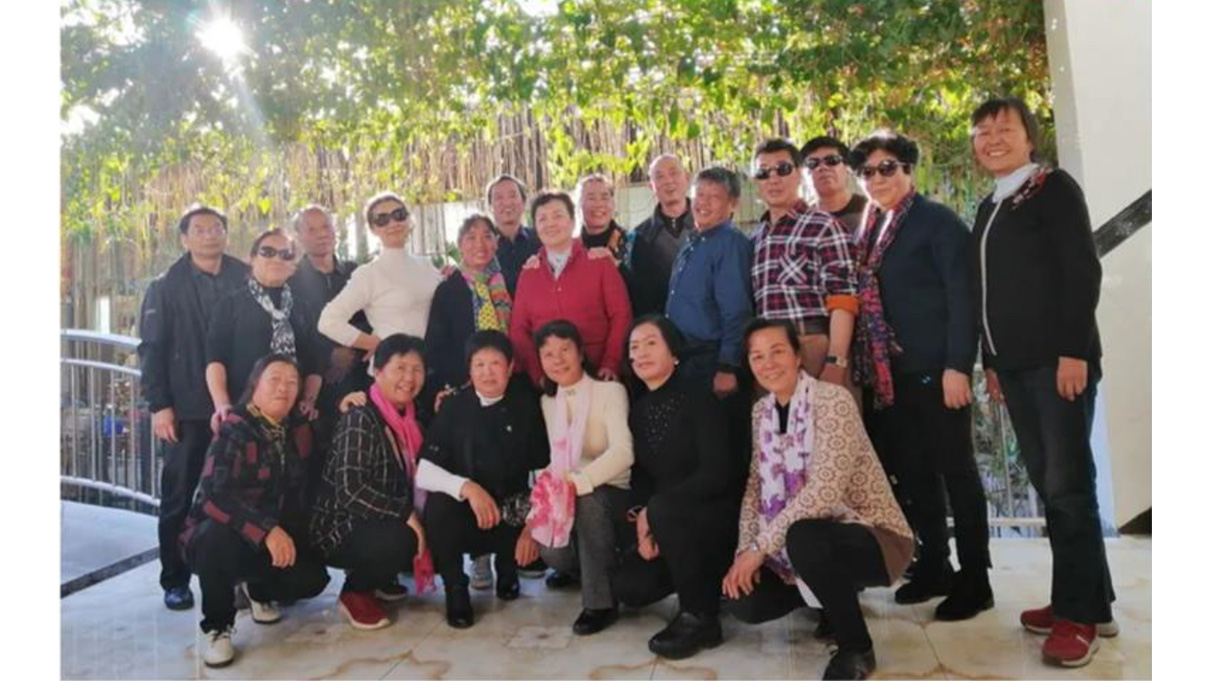
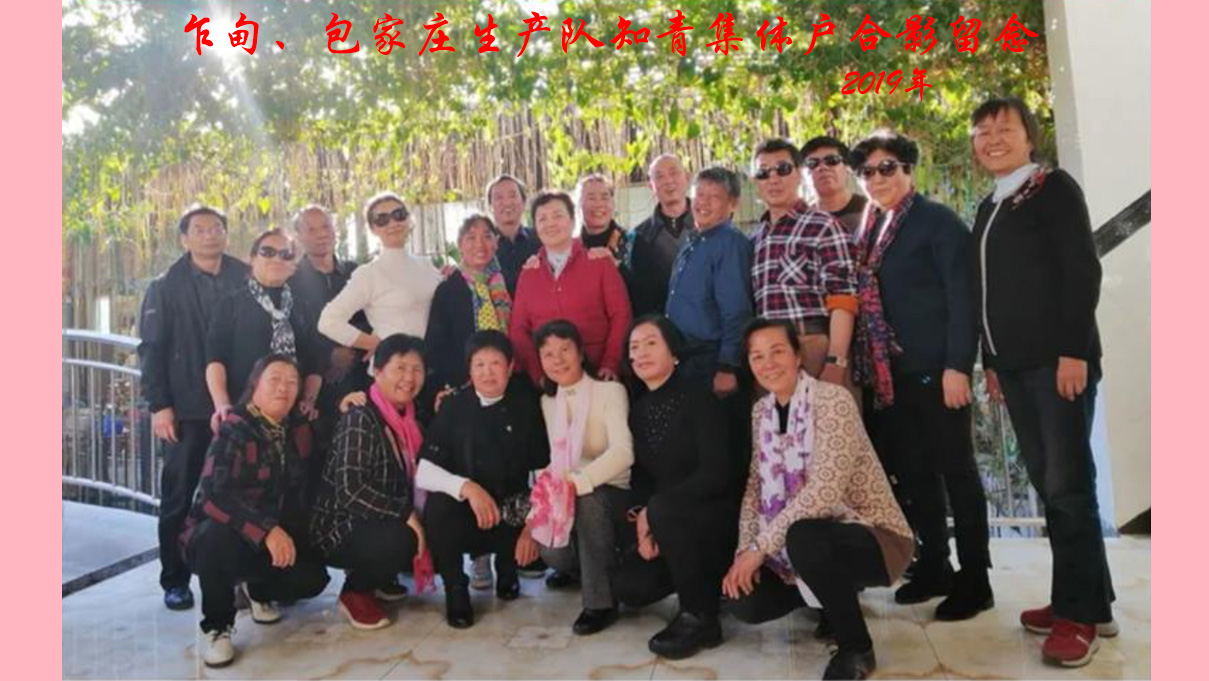
add a post

diff --git a/_pages/gonggao.md b/_pages/gonggao.md
@@ -2,7 +2,7 @@
 layout: single
 permalink: /gonggao/
 title: "包家庄村务信息公开"
-excerpt: "标语"
+excerpt: ""
 
 toc: true
 toc_label: "公告栏"
@@ -14,6 +14,7 @@ header:
 ## 政务公开
 
 ### - 会议纪要
+
 - xxxxxxxxxxxxxxxxxxxxxxxxxxxxxxxxxxxxxxxxxxxxxxxxxxxxxxxxx
 - xxxxxxxxxxxxxxxxxxxxxxxxxxxxxxxxxxxxxxxxxxxxxxxxxxxxxxxxx
 - xxxxxxxxxxxxxxxxxxxxxxxxxxxxxxxxxxxxxxxxxxxxxxxxxxxxxxxxx
@@ -21,22 +22,31 @@ header:
 ## 事务公开
 
 ### - 公共设施建设
+
 - xxxxxxxxxxxxxxxxxxxxxxxxxxxxxxxxxxxxxxxxxxxxxxxxxxxxxxxxx
 - xxxxxxxxxxxxxxxxxxxxxxxxxxxxxxxxxxxxxxxxxxxxxxxxxxxxxxxxx
 - xxxxxxxxxxxxxxxxxxxxxxxxxxxxxxxxxxxxxxxxxxxxxxxxxxxxxxxxx
+
 ### - 教育
+
 - xxxxxxxxxxxxxxxxxxxxxxxxxxxxxxxxxxxxxxxxxxxxxxxxxxxxxxxxx
 - xxxxxxxxxxxxxxxxxxxxxxxxxxxxxxxxxxxxxxxxxxxxxxxxxxxxxxxxx
 - xxxxxxxxxxxxxxxxxxxxxxxxxxxxxxxxxxxxxxxxxxxxxxxxxxxxxxxxx
+
 ### - 医疗
+
 - xxxxxxxxxxxxxxxxxxxxxxxxxxxxxxxxxxxxxxxxxxxxxxxxxxxxxxxxx
 - xxxxxxxxxxxxxxxxxxxxxxxxxxxxxxxxxxxxxxxxxxxxxxxxxxxxxxxxx
 - xxxxxxxxxxxxxxxxxxxxxxxxxxxxxxxxxxxxxxxxxxxxxxxxxxxxxxxxx
+
 ### - 就业
+
 - xxxxxxxxxxxxxxxxxxxxxxxxxxxxxxxxxxxxxxxxxxxxxxxxxxxxxxxxx
 - xxxxxxxxxxxxxxxxxxxxxxxxxxxxxxxxxxxxxxxxxxxxxxxxxxxxxxxxx
 - xxxxxxxxxxxxxxxxxxxxxxxxxxxxxxxxxxxxxxxxxxxxxxxxxxxxxxxxx
+
 ### - 低保
+
 - xxxxxxxxxxxxxxxxxxxxxxxxxxxxxxxxxxxxxxxxxxxxxxxxxxxxxxxxx
 - xxxxxxxxxxxxxxxxxxxxxxxxxxxxxxxxxxxxxxxxxxxxxxxxxxxxxxxxx
 - xxxxxxxxxxxxxxxxxxxxxxxxxxxxxxxxxxxxxxxxxxxxxxxxxxxxxxxxx
@@ -44,24 +54,31 @@ header:
 ## 财务公开
 
 ### - 收入
+
 - xxxxxxxxxxxxxxxxxxxxxxxxxxxxxxxxxxxxxxxxxxxxxxxxxxxxxxxxx
 - xxxxxxxxxxxxxxxxxxxxxxxxxxxxxxxxxxxxxxxxxxxxxxxxxxxxxxxxx
 - xxxxxxxxxxxxxxxxxxxxxxxxxxxxxxxxxxxxxxxxxxxxxxxxxxxxxxxxx
+
 ### - 支出
+
 - xxxxxxxxxxxxxxxxxxxxxxxxxxxxxxxxxxxxxxxxxxxxxxxxxxxxxxxxx
 - xxxxxxxxxxxxxxxxxxxxxxxxxxxxxxxxxxxxxxxxxxxxxxxxxxxxxxxxx
 - xxxxxxxxxxxxxxxxxxxxxxxxxxxxxxxxxxxxxxxxxxxxxxxxxxxxxxxxx
+
 ### - 项目
+
+- xxxxxxxxxxxxxxxxxxxxxxxxxxxxxxxxxxxxxxxxxxxxxxxxxxxxxxxxx
+- xxxxxxxxxxxxxxxxxxxxxxxxxxxxxxxxxxxxxxxxxxxxxxxxxxxxxxxxx
+- xxxxxxxxxxxxxxxxxxxxxxxxxxxxxxxxxxxxxxxxxxxxxxxxxxxxxxxxx
+
+## 规章制度
+
 - xxxxxxxxxxxxxxxxxxxxxxxxxxxxxxxxxxxxxxxxxxxxxxxxxxxxxxxxx
 - xxxxxxxxxxxxxxxxxxxxxxxxxxxxxxxxxxxxxxxxxxxxxxxxxxxxxxxxx
 - xxxxxxxxxxxxxxxxxxxxxxxxxxxxxxxxxxxxxxxxxxxxxxxxxxxxxxxxx
 
 ## 反馈意见
-- xxxxxxxxxxxxxxxxxxxxxxxxxxxxxxxxxxxxxxxxxxxxxxxxxxxxxxxxx
-- xxxxxxxxxxxxxxxxxxxxxxxxxxxxxxxxxxxxxxxxxxxxxxxxxxxxxxxxx
-- xxxxxxxxxxxxxxxxxxxxxxxxxxxxxxxxxxxxxxxxxxxxxxxxxxxxxxxxx
 
-## 其他
 - xxxxxxxxxxxxxxxxxxxxxxxxxxxxxxxxxxxxxxxxxxxxxxxxxxxxxxxxx
 - xxxxxxxxxxxxxxxxxxxxxxxxxxxxxxxxxxxxxxxxxxxxxxxxxxxxxxxxx
 - xxxxxxxxxxxxxxxxxxxxxxxxxxxxxxxxxxxxxxxxxxxxxxxxxxxxxxxxx

diff --git a/_posts/2022-11-19-wenmingjiaxiang.md b/_posts/2022-11-19-wenmingjiaxiang.md
@@ -1,0 +1,48 @@
+---
+title: "建设文明家乡-邻里相处之道"
+last_modified_at: 2022-11-19
+categories: 
+  - culture
+tags:
+  - 建设
+  - 相处
+---
+
+常言道：远亲不如近邻，邻居之间相处的时间一般都比较长，和睦的邻里关系会让大家都觉得如沐春风，反之水火不容的邻里关系则容易让大家都感到身心疲惫，所以如何与邻居搞好关系，文明相处，是十分重要的。
+
+### 打招呼问好
+
+![](http://sh.wenming.gd.cn/d/file/p/2019-05-10/1557450279474387.png)
+
+日常见到邻居要常打招呼问好。轻轻点一下头，送出一个亲切的微笑，附上一句恰当的称呼，再说一声简单的“您好”，邻里间的感情便会因这些小小举动变得越来越亲密。
+
+### 互帮互助，互相尊重
+
+![](http://sh.wenming.gd.cn/d/file/p/2019-05-10/1557450286725733.png)
+
+邻里之间能办到的事要及时搭把手，主动帮助空巢、残疾等特殊家庭，有事与邻居相互照应，邻居给予帮助后可以适当送一点小礼物表示感谢。 
+
+### 爱护公共环境
+
+![](http://sh.wenming.gd.cn/d/file/p/2019-05-10/1557450303100045.png)
+
+自觉维护公共卫生，主动参与社区打扫、清理活动，不乱堆放生活垃圾，不占用楼道等公共地方。养猫狗等宠物的家庭在遛宠物时应及时妥善清理宠物的排泄物，保持公共环境卫生和美观。
+
+### 不议论邻居隐私
+
+![](http://sh.wenming.gd.cn/d/file/p/2019-05-10/1557450327566150.png)
+
+不要说邻居的坏话以及议论邻居的隐私，即使看到一些事情，也不能四处宣扬，只要不是什么原则性的大问题，就只当没看见，维护邻居的尊严。 
+
+### 借东西及时归还
+
+![](http://sh.wenming.gd.cn/d/file/p/2019-05-10/1557450336850340.png)
+
+借用邻居的东西要有礼貌并且要及时归还，如有损坏要说明情况，主动道歉并作出相应的赔偿，最好不借贵重的东西，也不要转借他人。 
+
+你还有其他补充么？讲文明，懂礼仪，建设文明家乡，从现在坐起！！
+
+---
+
+*参考*  
+[*邻里相处之道-四会文明网*](http://gdsh.wenming.cn/CivilizedXF/201905/t20190510_3021613.shtml)

diff --git a/_posts/2022-11-19-zhiqingsunyue.md b/_posts/2022-11-19-zhiqingsunyue.md
@@ -1,0 +1,25 @@
+---
+title: "知青岁月"
+last_modified_at: 2022-11-19
+categories: 
+  - history
+tags:
+  - 历史
+  - 知青
+  - 建设
+---
+**知识青年上山下乡运动**（简称上山下乡，通称“下放”、“插队”），中国组织城市知识青年（简称“知青”）到农村定居和劳动的政治运动，前后经历25年（1956年-1978年），知青总数达2000万人左右。
+
+1968年12月，毛泽东同志关于“知识青年到农村去，接受贫下中农的再教育”的指示刚一发表，全国上下纷纷响应。1969年1月21日，是咱们个旧知青下乡的日子。当时，数百辆解放牌大卡车齐聚人民医院门口，它们将负责把全市5600多名知青分别送往各公社、大队、生产队去。
+
+当天早上8时许，老阴山的太阳刚刚冒出山顶，人民医院附近已是人山人海，你推我挤、人声鼎沸、接踵摩肩。远行的孩子，送别的亲人，殷殷的嘱咐，默默的祈祷……说不尽的千言万语，道不完的离情别绪。当车子缓缓启动，霎时间，人们感情的潮水犹如决堤的江河，一发不可收拾——哭声、叫声、喇叭声，响成一片。此情此景，不禁让人想起杜甫的诗：“车辚辚，马萧萧，行人弓箭各在腰。爷娘妻子走相送，尘埃不见咸阳桥。牵衣顿足拦道哭，哭声直上干云宵。”
+
+不知不觉50年过去了，下乡第一天的情景，历历如昨，此后尽管只是短短的三年，但它带给我们一生的影响却是巨大和不可磨灭的。正直、本分、坚韧、踏实成了一代知青的共同特点。特别能吃苦，特别能战斗，特别能奉献——它的名字叫“知青”。
+
+向知青们致敬！哦，这些时代的苦人儿……  
+
+---
+
+*参考*  
+[*《下乡第一天》-个旧市人民政府*](http://www.gj.hh.gov.cn/mlgj/mlgj_1/201801/t20180110_167972.html)  
+[*知青上山下乡-百度百科*](https://baike.baidu.com/item/%E7%9F%A5%E9%9D%92%E4%B8%8A%E5%B1%B1%E4%B8%8B%E4%B9%A1/14458242)

diff --git a/_pages/news.md b/_pages/news.md
@@ -8,11 +8,11 @@ header:
   overlay_image: "/assets/images/baojiazhuang_quantu.jpg"
 
 gallery:
-  - url: ""
+  - url: /history/zhiqingsuiyue/
     image_path: /assets/images/zhiqing2005.jpg
     alt: "乍甸、包家庄知青合影留念·2005年"
     title: "乍甸、包家庄知青合影留念·2005年"
-  - url: ""
+  - url: /history/zhiqingsuiyue/
     image_path: /assets/images/zhiqing2019.jpg
     alt: "乍甸、包家庄知青合影留念·2019年"
     title: "乍甸、包家庄知青合影留念·2019年"
@@ -23,7 +23,14 @@ gallery:
 
 ---
 
+## 图片展示
+
 {% include gallery %}
 
-<iframe width="320" height="180" src="https://xbeibeix.com/api/bilibili/biliplayer/?url=https://www.bilibili.com/video/BV12s411S7w8/?spm_id_from=333.1007.top_right_bar_window_default_collection.content.click" frameborder="0" allowfullscreen>
-</iframe>
+<!--
+<iframe width="320" height="180" src="//player.bilibili.com/player.html?aid=2147646&bvid=BV12s411S7w8&cid=3337981&page=1" scrolling="no" border="0" frameborder="no" framespacing="0" allowfullscreen="true"> </iframe>
+-->
+
+## 观看视频
+
+<iframe width="320" height="180" src="https://player.youku.com/embed/XMjQ3OTUzNzk4MA==" scrolling="no" border="0" frameborder="no" allowfullscreen=ture></iframe>

diff --git a/_posts/2022-11-18-honghelvyou.md b/_posts/2022-11-18-honghelvyou.md
@@ -11,19 +11,33 @@ tags:
 节假日不知道去哪休闲？看看红河州内有没有心怡的景点🛫🛫🛫
 
 ### 个旧市
+
 ![]({{ site.url }}{{ site.baseurl }}/assets/images/honghelvyou/gejiu.jpg)
+
 ### 蒙自市
+
 ![]({{ site.url }}{{ site.baseurl }}/assets/images/honghelvyou/mengzi.jpg)
+
 ### 开远市
+
 ![]({{ site.url }}{{ site.baseurl }}/assets/images/honghelvyou/kaiyuan.jpg)
+
 ### 弥勒市
+
 ![]({{ site.url }}{{ site.baseurl }}/assets/images/honghelvyou/mile.jpg)
+
 ### 建水县
+
 ![]({{ site.url }}{{ site.baseurl }}/assets/images/honghelvyou/jianshui.jpg)
+
 ### 石屏县
+
 ![]({{ site.url }}{{ site.baseurl }}/assets/images/honghelvyou/shiping.jpg)
+
 ### 元阳县
+
 ![]({{ site.url }}{{ site.baseurl }}/assets/images/honghelvyou/yuanyang.jpg)
+
 ### 泸西县
 
 ### 红河县
@@ -31,7 +45,9 @@ tags:
 ### 绿春县
 
 ### 屏边苗族自治县
+
 ![]({{ site.url }}{{ site.baseurl }}/assets/images/honghelvyou/pingbian.jpg)
+
 ### 金平苗族瑶族傣族自治县
 
 ### 河口瑶族自治县
@@ -39,11 +55,9 @@ tags:
 ---
 
 **红河州地图**
-
 ![]({{ site.url }}{{ site.baseurl }}/assets/images/honghelvyou/honghe_jingdian.jpg)
 
 ---
 
 *参考*  
-
 [*马蜂窝*](https://www.mafengwo.cn/)

diff --git a/_posts/2022-11-18-maoyougui-guju.md b/_posts/2022-11-18-maoyougui-guju.md
@@ -5,6 +5,7 @@ categories:
   - culture
 tags:
   - 建筑
+  - 人物
 ---
 
 ### 毛友桂故居
@@ -23,7 +24,6 @@ tags:
 
 ---
 
-*参考*
-
+*参考*  
 [*《个旧市3处文保单位公布为不可移动革命文物》-个旧市人民政府*](http://www.gj.hh.gov.cn/zfxxgk/fdzdgknr/zdlyxxgk/lysc/202101/t20210126_495394.html)  
 [*《抗日航空烈士》-人民网*](http://cpc.people.com.cn/n/2014/0922/c87228-25710523.html)
